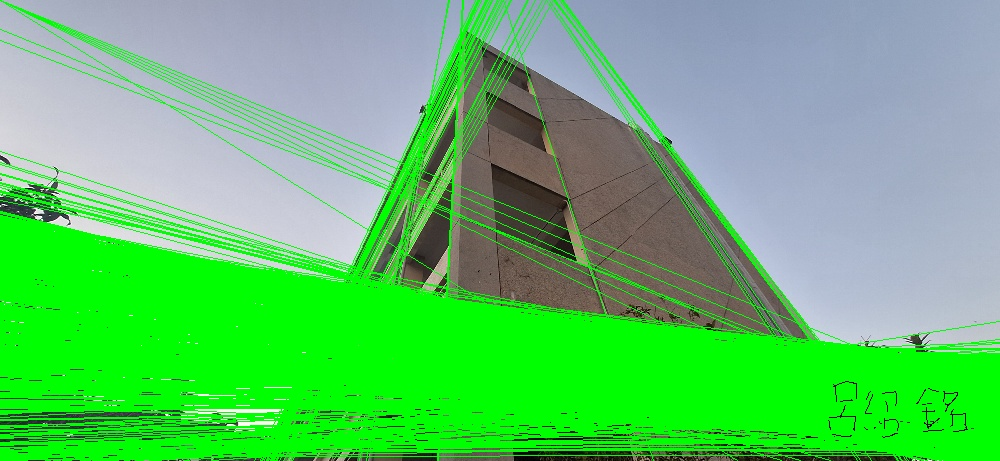
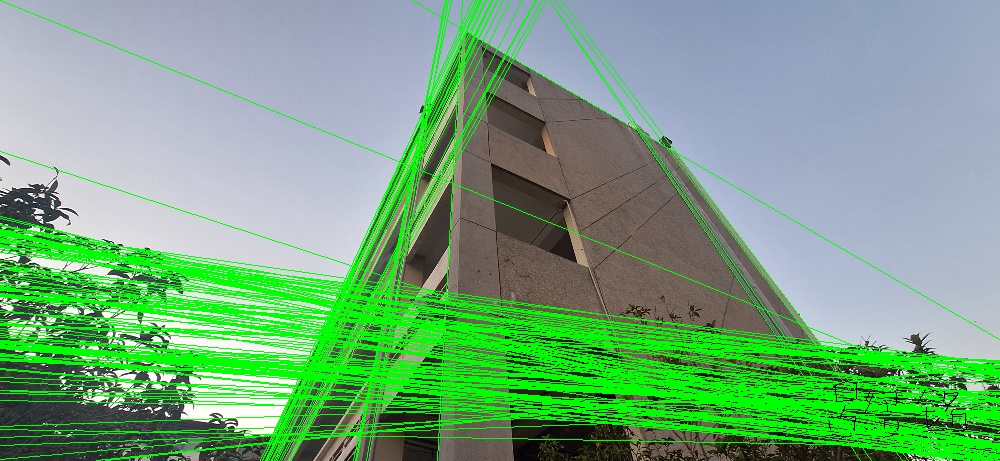
新增個步驟圖片

diff --git a/HW3/HW3.py b/HW3/HW3.py
@@ -1,131 +1,35 @@
 import cv2
 import numpy as np
-# def edge_linking(img):
-#     edge = np.zeros(img.shape,dtype="uint8")
-#     myunoin = unoin(img.shape[0], img.shape[1])
-#     for i in range(img.shape[0]):
-#         for j in range(img.shape[1]):
-#             if img[i, j] == 1 or img[i, j] == 2:
-#                 if i-1 >= 0 and (img[i-1, j] == 1 or img[i-1, j] == 2):
-#                     myunoin.union(i, j, i-1, j, img)
-#                 if j-1 >= 0 and (img[i, j-1] == 1 or img[i, j-1] == 2):
-#                     myunoin.union(i, j, i, j-1, img)
-#                 if i-1 >= 0 and j-1 >= 0 and (img[i-1, j-1] == 1 or img[i-1, j-1] == 2):
-#                     myunoin.union(i, j, i-1, j-1, img)
-#                 if i-1 >= 0 and j+1 < img.shape[1] and (img[i-1, j+1] == 1 or img[i-1, j+1] == 2):
-#                     myunoin.union(i, j, i-1, j+1, img)
-#     for i in range(img.shape[0]):
-#         for j in range(img.shape[1]):
-#             if img[i, j] == 1 or img[i, j] == 2:
-#                 if i-1 >= 0 and (img[i-1, j] == 1 or img[i-1, j] == 2):
-#                     myunoin.union(i, j, i-1, j, img)
-#                 if j-1 >= 0 and (img[i, j-1] == 1 or img[i, j-1] == 2):
-#                     myunoin.union(i, j, i, j-1, img)
-#                 if i-1 >= 0 and j-1 >= 0 and (img[i-1, j-1] == 1 or img[i-1, j-1] == 2):
-#                     myunoin.union(i, j, i-1, j-1, img)
-#                 if i-1 >= 0 and j+1 < img.shape[1] and (img[i-1, j+1] == 1 or img[i-1, j+1] == 2):
-#                     myunoin.union(i, j, i-1, j+1, img)
-#     for i in range(img.shape[0]):
-#         for j in range(img.shape[1]):
-#             if img[i, j] == 1:
-#                 root = myunoin.find(i, j,img)
-#                 if img[root[0], root[1]] == 2:
-#                     edge[i, j] = 255
-#                     # print("edge")
-#                 else:
-#                     edge[i, j] = 0
-#             elif img[i, j] == 2:
-#                 edge[i, j] = 255
-#     return edge
+sign_img = cv2.imread("sign.jpg", cv2.IMREAD_GRAYSCALE) #讀取簽名
 
-# class unoin:
-#     def __init__(self, M, N):
-#         self.parent = np.zeros((M, N, 2), dtype=int)
-#         for i in range(M):
-#             for j in range(N):
-#                 self.parent[i,j,0] = i
-#                 self.parent[i,j,1] = j
-#         self.size = np.zeros((M, N))
-#     def find(self, i, j ,img):
-#         if self.parent[i ,j][0] != i or self.parent[i, j][1] != j:
-#             root = self.find(self.parent[i, j][0], self.parent[i, j][1],img)
-#             if img[root[0],root[1]] == 2:
-#                 self.parent[i, j] = root
-#         return self.parent[i, j]
-#     def union(self, x, y, x1, y1, img):
-#         root1 = self.find(x, y, img)
-#         root2 = self.find(x1, y1, img)
-#         if x == 1041 and y == 2101:
-#             print(root1,root2)
-#             print(x1,y1)
-#         if (root1 != root2).any():
-#             if img[root1[0], root1[1]] == 2 and img[root2[0], root2[1]] != 2:
-#                 self.parent[root2[0], root2[1]] = root1
-#                 self.size[root1[0], root1[1]] += self.size[root2[0], root2[1]]
-#             elif img[root2[0], root2[1]] == 2 and img[root1[0], root1[1]] != 2:
-#                 self.parent[root1[0], root1[1]] = root2
-#                 self.size[root2[0], root2[1]] += self.size[root1[0], root1[1]]
-#             else:
-#                 if self.size[root1[0], root1[1]] < self.size[root2[0], root2[1]]:
-#                     self.parent[root1[0], root1[1]] = root2
-#                     self.size[root2[0], root2[1]] += self.size[root1[0], root1[1]]
-#                 else:
-#                     self.parent[root2[0], root2[1]] = root1
-#                     self.size[root1[0], root1[1]] += self.size[root2[0], root2[1]]
-
-# def hough_transform2(edges, rho_res=1, theta_res=np.pi/180, threshold=100):
-#     height, width = edges.shape
-#     max_dist = int(np.sqrt(height**2 + width**2))
-#     rhos = np.arange(-max_dist, max_dist+1, rho_res)
-#     thetas = np.arange(0, np.pi, theta_res)
-#     accumulator = np.zeros((len(rhos), len(thetas)), dtype="uint8")
-
-#     for y in range(height):
-#         for x in range(width):
-#             if edges[y, x]:  # 如果是邊緣點
-#                 for theta_idx in range(len(thetas)):
-#                     theta = thetas[theta_idx]
-#                     rho = int(x * np.cos(theta) + y * np.sin(theta))
-#                     rho_idx = np.argmin(np.abs(rhos - rho))
-#                     accumulator[rho_idx, theta_idx] += 1
-#     cv2.imwrite("hi.jpg",accumulator)
-#     lines = []
-#     for rho_idx in range(len(rhos)):
-#         for theta_idx in range(len(thetas)):
-#             if accumulator[rho_idx, theta_idx] >= threshold:
-#                 rho = rhos[rho_idx]
-#                 theta = thetas[theta_idx]
-#                 lines.append((rho, theta))
-
-#     return lines
 def gussenfilter(img, size):
-    img = cv2.GaussianBlur(img, (size, size), 0)
+    img = cv2.GaussianBlur(img, (size, size), 0) #高斯濾波
     return img
 
 def compute_gradient(img, size=3):
-    x= cv2.Sobel(img,cv2.CV_64F, 1, 0, ksize=size)
-    y= cv2.Sobel(img,cv2.CV_64F, 0, 1, ksize=size)
-    grad = np.sqrt(np.power(x,2) + np.power(y,2))
-    angle = np.arctan2(y, x)
+    x= cv2.Sobel(img,cv2.CV_64F, 1, 0, ksize=size) #計算x方向梯度
+    y= cv2.Sobel(img,cv2.CV_64F, 0, 1, ksize=size) #計算y方向梯度
+    grad = np.sqrt(np.power(x,2) + np.power(y,2)) #計算梯度
+    angle = np.arctan2(y, x) #計算角度
     return grad, angle
 
 def non_max(grad, angle):
-    result = np.zeros(grad.shape,dtype="int32")
-    for i in range(1, grad.shape[0]-1):
-        for j in range(1, grad.shape[1]-1):
-            if(angle[ i ,j]< 0):
-                angle[i ,j] += np.pi
-            if (angle[i, j] >= 7/8*np.pi or angle[i, j] < 1/8*np.pi):
-                if grad[i, j] > grad[i, j+1] and grad[i, j] > grad[i, j-1]:
-                    result[i, j] = grad[i, j]
+    result = np.zeros(grad.shape,dtype="int32") #建立結果數列
+    for i in range(1, grad.shape[0]-1): 
+        for j in range(1, grad.shape[1]-1): #遍歷整個圖像
+            if(angle[ i ,j]< 0): #調整到0-pi之間
+                angle[i ,j] += np.pi 
+            if (angle[i, j] >= 7/8*np.pi or angle[i, j] < 1/8*np.pi): #判斷角度
+                if grad[i, j] > grad[i, j+1] and grad[i, j] > grad[i, j-1]: #判斷是否為最大值
+                    result[i, j] = grad[i, j] #將最大值存入結果數列
                 else:
-                    result[i, j] = 0
-            elif (angle[i, j] >= 1/8*np.pi and angle[i, j] < 3/8*np.pi):
-                if grad[i, j] > grad[i-1, j-1] and grad[i, j] > grad[i+1, j+1]:
-                    result[i, j] = grad[i, j]
+                    result[i, j] = 0 #不是最大值存入0
+            elif (angle[i, j] >= 1/8*np.pi and angle[i, j] < 3/8*np.pi): #判斷角度
+                if grad[i, j] > grad[i-1, j-1] and grad[i, j] > grad[i+1, j+1]: #判斷是否為最大值
+                    result[i, j] = grad[i, j] #將最大值存入結果數列
                 else:
-                    result[i, j] = 0
-            elif (angle[i, j] >= 3/8*np.pi and angle[i, j] < 5/8*np.pi):
+                    result[i, j] = 0 #不是最大值存入0
+            elif (angle[i, j] >= 3/8*np.pi and angle[i, j] < 5/8*np.pi): 
                 if grad[i, j] > grad[i-1, j] and grad[i, j] > grad[i+1, j]:
                     result[i, j] = grad[i, j]
                 else:
@@ -138,116 +42,102 @@ def non_max(grad, angle):
     return result
 
 def double_threshold(img, low, high):
-    result = np.zeros(img.shape, dtype="uint8")
-    for i in range(1, img.shape[0]-1):
-        for j in range(1, img.shape[1]-1):
-            if img[i, j] > high:
-                result[i, j] = 255
-            elif img[i, j] < low:
-                result[i, j] = 0
+    result = np.zeros(img.shape, dtype="uint8") #建立結果數列
+    for i in range(1, img.shape[0]-1): 
+        for j in range(1, img.shape[1]-1): #遍歷整個圖像
+            if img[i, j] > high: #判斷是否大於high
+                result[i, j] = 255 #強邊界
+            elif img[i, j] < low: #判斷是否小於low
+                result[i, j] = 0 #非邊界
             else:
-                result[i, j] = 128
+                result[i, j] = 128  #弱邊界
     return result
 
 def edge_linking_dfs(img):
     processimg = img.copy() #複製圖片
-
-    # 初始化邊緣圖
-    edge = np.zeros(img.shape, dtype="uint8")
-    
-    # 定義方向
-    directions = [(-2, 0), (-2, 1), (-2, 2), (-2, -1), (-2, -2),
-                  (-1, 0), (-1, 1), (-1, 2), (-1, -1), (-1, -2),
-                  (0, -2), (0, -1), (0, 1), (0, 2),
-                  (1, 0), (1, 1), (1, 2), (1, -1), (1, -2),
-                  (2, 0), (2, 1), (2, 2), (2, -1), (2, -2)]
-    "(-1, 0), (1, 0), (0, -1), (0, 1), (-1, -1), (-1, 1), (1, -1), (1, 1)"
-    def dfs(x, y):
-        stack = [(x, y)]
-        while stack:
-            cx, cy = stack.pop()
+    edge = np.zeros(img.shape, dtype="uint8")  #建立結果數列
+    directions = [(-1, 0), (1, 0), (0, -1), (0, 1), (-1, -1), (-1, 1), (1, -1), (1, 1)] # 定義方向
+    def dfs(x, y): # 定義深度優先搜索函數
+        stack = [(x, y)] # 初始化堆疊
+        while stack: # 當堆疊不為空
+            cx, cy = stack.pop() # 取出堆疊頂部元素
             if edge[cx, cy] == 0:  # 尚未訪問
                 edge[cx, cy] = 255  # 標記為邊緣
-                for dx, dy in directions:
-                    nx, ny = cx + dx, cy + dy
-                    if 0 <= nx < processimg.shape[0] and 0 <= ny < processimg.shape[1]:
+                for dx, dy in directions: # 遍歷所有方向
+                    nx, ny = cx + dx, cy + dy # 計算下一個位置
+                    if 0 <= nx < processimg.shape[0] and 0 <= ny < processimg.shape[1]: # 確保位置在圖像範圍內
                         if processimg[nx, ny] == 128 and edge[nx, ny] == 0:  # 與弱邊緣相連
                             processimg[nx, ny] = 255  # 標記為強邊緣
-                            stack.append((nx, ny))
-    
-    # 遍歷整個圖像，從強邊緣開始進行 DFS
+                            stack.append((nx, ny)) # 將位置加入堆疊
     for i in range(img.shape[0]):
-        for j in range(img.shape[1]):
+        for j in range(img.shape[1]): # 遍歷整個圖像
             if processimg[i, j] == 255 and edge[i, j] == 0:  # 強邊緣且未處理
-                dfs(i, j)
-    
+                dfs(i, j) # 進行深度優先搜索
     return edge
 
-def hough_transform(edge_image, theta_res=np.pi/180, rho_res=1, threshold=50, sample_rate=0.5, delta_theta=1, delta_rho=1):
-
-    # 1. 初始化變數
-    height, width = edge_image.shape  # 影像尺寸
+def hough_transform(edge_image, theta_res=np.pi/180, rho_res=1, threshold=50, sample_rate=0.5, delta_theta=1, delta_rho=1 ,picturenumber =0):
+    height, width = edge_image.shape  # 取得影像尺寸
     diag_len = int(np.sqrt(height**2 + width**2))  # 影像對角線長度
-    rhos = np.arange(-diag_len, diag_len , rho_res)  # ρ 的範圍
+    rhos = np.arange(-diag_len, diag_len , rho_res)  # ρ 的範圍 (-d 到 d)
     thetas = np.arange(0, np.pi, theta_res)  # θ 的範圍 (0 到 180 度)
     
-    # 2. 隨機選擇邊緣點 (根據 sample_rate 控制樣本數量)
-    edge_points = np.argwhere(edge_image)  # 取得所有邊緣點 (y, x)
+    edge_points = np.argwhere(edge_image)  # 取得所有邊緣點
     sampled_points_idx = np.random.choice(edge_points.shape[0],size = int(len(edge_points)*sample_rate),replace= False)  # 隨機選擇部分邊緣點
-    sampled_points = edge_points[sampled_points_idx] 
-    # 3. 初始化累加器 (Accumulator)
-    print("samplepoint:"+str(len(sampled_points)))
-    accumulator = np.zeros((len(rhos), len(thetas)), dtype=np.int32)
+    sampled_points = edge_points[sampled_points_idx]  # 取得部分邊緣點
+    print("samplepoint:"+str(len(sampled_points))) #印出取樣點數量
     
-    # 4. 投票：對每個邊緣點，計算 θ 和 ρ，並擴展範圍進行投票
+    accumulator = np.zeros((len(rhos), len(thetas)), dtype=np.float64) # 建立累加器
+
     for y, x in sampled_points:
-        for theta_idx, theta in enumerate(thetas):
+        for theta_idx, theta in enumerate(thetas): # 遍歷所有角度
             rho = int(x * np.cos(theta) + y * np.sin(theta))  # 計算 ρ 值
             rho_idx = np.argmin(np.abs(rhos - rho))  # 取得最接近的索引
-            rho_range = np.arange(max(rho_idx - delta_rho , 0), min(rho_idx + delta_rho + 1, len(rhos)))
-            theta_range = np.arange(max(theta_idx - delta_theta,0), min(theta_idx + delta_theta + 1, len(thetas)))
-            # print(len(rho_range), len(theta_range))
+            rho_range = np.arange(max(rho_idx - delta_rho , 0), min(rho_idx + delta_rho + 1, len(rhos))) # 取得擴張範圍
+            theta_range = np.arange(max(theta_idx - delta_theta,0), min(theta_idx + delta_theta + 1, len(thetas)))# 取得擴張範圍
             for r_idx in rho_range:
-                for t_idx in theta_range:
-                    accumulator[r_idx, t_idx] += 1
-                    
-    # 5. 找出符合閾值的直線
-    lines = []
-    for rho_idx, theta_idx in np.argwhere(accumulator >= threshold):
-        rho = rhos[rho_idx]
-        theta = thetas[theta_idx]
-        lines.append((rho, theta))
+                for t_idx in theta_range: # 遍歷所有範圍
+                    if(r_idx == rho_idx and t_idx == theta_idx): #如果是原本的點
+                        accumulator[r_idx, t_idx] += 1 #累加1
+                    else: #如果不是原本的點
+                        accumulator[r_idx, t_idx] += 0.3 #累加0.3
+    showimg(accumulator, f"accumulator_im{picturenumber+1}.jpg") #存檔
+    lines = [] # 初始線段
+    for rho_idx, theta_idx in np.argwhere(accumulator >= threshold): # 取得所有大於閾值的索引
+        rho = rhos[rho_idx] # 取得 rho 值
+        theta = thetas[theta_idx] # 取得 theta 值
+        lines.append((rho, theta)) # 加入線段
     
     return lines
 
 def drowline(img, lines):
-    print("linenumber:"+str(len(lines)))
-    if lines is not None:
-        for line in lines:
+    print("linenumber:"+str(len(lines))) #印出線段數量
+    if lines is not None: # 如果有線段
+        for line in lines: # 遍歷所有線段
             rho, theta = line  # 提取 rho 和 theta
-            a = np.cos(theta)
-            b = np.sin(theta)
-            x0 = a * rho
-            y0 = b * rho
+            a = np.cos(theta) # 計算 cos(theta)
+            b = np.sin(theta) # 計算 sin(theta)
+            x0 = a * rho # 計算 x0
+            y0 = b * rho # 計算 y0
             # 計算兩個端點
             x1 = int(x0 + 2000 * (-b))
             y1 = int(y0 + 2000 * (a))
             x2 = int(x0 - 2000 * (-b))
             y2 = int(y0 - 2000 * (a))
-            # 在圖像上繪製直線
-            cv2.line(img, (x1, y1), (x2, y2), (0, 255, 0), 1)
+            cv2.line(img, (x1, y1), (x2, y2), (0, 255, 0), 1)# 在圖像上繪製直線
 
 
-def canny_edge(img, gussenfiltersize, compute_gradientsize,low, high):
+def canny_edge(img, gussenfiltersize, compute_gradientsize,low, high, i):
     processimg = img.copy() #複製圖片
-    imgresize = gussenfilter(processimg, gussenfiltersize)#高斯濾波
-    grad, angle = compute_gradient(imgresize, compute_gradientsize)#計算梯度
-    grad = non_max(grad, angle)
-    grad = double_threshold(grad ,low , high)
-    gradresult = edge_linking_dfs(grad)
+    processimg = gussenfilter(processimg, gussenfiltersize)#高斯濾波
+    grad, angle = compute_gradient(processimg, compute_gradientsize)#計算梯度
+    showimg(grad, f"grad_im{i+1}.jpg") #存檔
+    grad = non_max(grad, angle) #非極大值抑制
+    showimg(grad, f"non_max_im{i+1}.jpg") #存檔
+    grad = double_threshold(grad ,low , high) #雙閾值
+    gradresult = edge_linking_dfs(grad) #邊緣連接
     return gradresult, grad
 
-def sign(input, sign_img):
+def sign(input):
     (h, w) = input.shape  # 取得圖片height 、width(黑白)
     #簽名在圖片的右下角位置
     for i in range(100):
@@ -256,30 +146,45 @@ def sign(input, sign_img):
                 input[h - 100 + i][w - 200 + j] = 255
     return input
 
-def signcolor(input, sign_img):
+def signcolor(input):
     (h, w , r) = input.shape  # 取得圖片height 、width(黑白)
     #簽名在圖片的右下角位置
     for i in range(100):
         for j in range(200):
-            if sign_img[i][j] < 50:  # 如果該位置小於50(黑色)，則將該位置像素調整為全白
-                for k in range(r):
-                    input[h - 100 + i][w - 200 + j][k] = 0
+            if sign_img[i][j] < 50:  # 如果該位置小於50(黑色)，則將該位置像素調整為全黑
+                for k in range(r): #  遍歷所有通道
+                    input[h - 100 + i][w - 200 + j][k] = 0 # 將該位置像素調整為全黑
     return input
+
+def showimg(img, name):
+    (h, w) = img.shape
+    showpicture = np.zeros((h, w), dtype="uint8")
+    for i in range(h):
+        for j in range(w):
+            if(img[i][j] > 255):
+                showpicture[i][j] = 255
+            elif(img[i][j] < 0):
+                showpicture[i][j] = 0
+            else:
+                showpicture[i][j] = img[i][j]
+    showpicture = sign(showpicture)
+    cv2.imwrite(name, showpicture)
+
 if __name__ == "__main__":
-    parameter=[[50, 150, 70],[50, 150, 80],[50, 150, 85]]#參數(low,higt,threshold)
-    signimg = cv2.imread("sign.jpg", cv2.IMREAD_GRAYSCALE)
-    for i in range(0, 3):
+    parameter=[[50, 150, 70],[50, 150, 80],[50, 150, 80]]#參數(low,higt,threshold)
+
+    for i in range(0, 3): 
         img = cv2.imread(f"im{i+1}.jpg") #讀取圖片
         imgresize = cv2.resize(img, (int(img.shape[1]/4), int(img.shape[0]/4)))#縮小圖片
         imgresizegray = cv2.cvtColor(imgresize, cv2.COLOR_BGR2GRAY)#轉換成灰階圖片
-        gradresult,grad = canny_edge(imgresizegray , 5, 3, parameter[i][0], parameter[i][1]) 
-        grad = sign(grad, signimg)
-        gradresult = sign(gradresult, signimg)
-        cv2.imwrite(f"double_im{i+1}.jpg", grad)
-        cv2.imwrite(f"cannyedge_im{i+1}.jpg", gradresult)
-        
-        lines= hough_transform(gradresult,  threshold=parameter[i][2],sample_rate=0.5, delta_theta=0, delta_rho=0)
-        drowline(imgresize, lines)
-        imgresize = signcolor(imgresize, signimg)
-        cv2.imwrite(f"Detected_Lines_im{i+1}.jpg",imgresize)
+        gradresult,grad = canny_edge(imgresizegray , 5, 3, parameter[i][0], parameter[i][1],i) #canny邊緣檢測
+        grad = sign(grad) #簽名
+        gradresult = sign(gradresult) #簽名
+        cv2.imwrite(f"double_im{i+1}.jpg", grad) #存檔
+        cv2.imwrite(f"cannyedge_im{i+1}.jpg", gradresult) #存檔
+         
+        lines= hough_transform(gradresult,  threshold=parameter[i][2],sample_rate=0.5, delta_theta=0, delta_rho=0 ,picturenumber= i) #霍夫變換
+        drowline(imgresize, lines) #畫線
+        imgresize = signcolor(imgresize) #簽名
+        cv2.imwrite(f"Detected_Lines_im{i+1}.jpg",imgresize) #存檔
     
